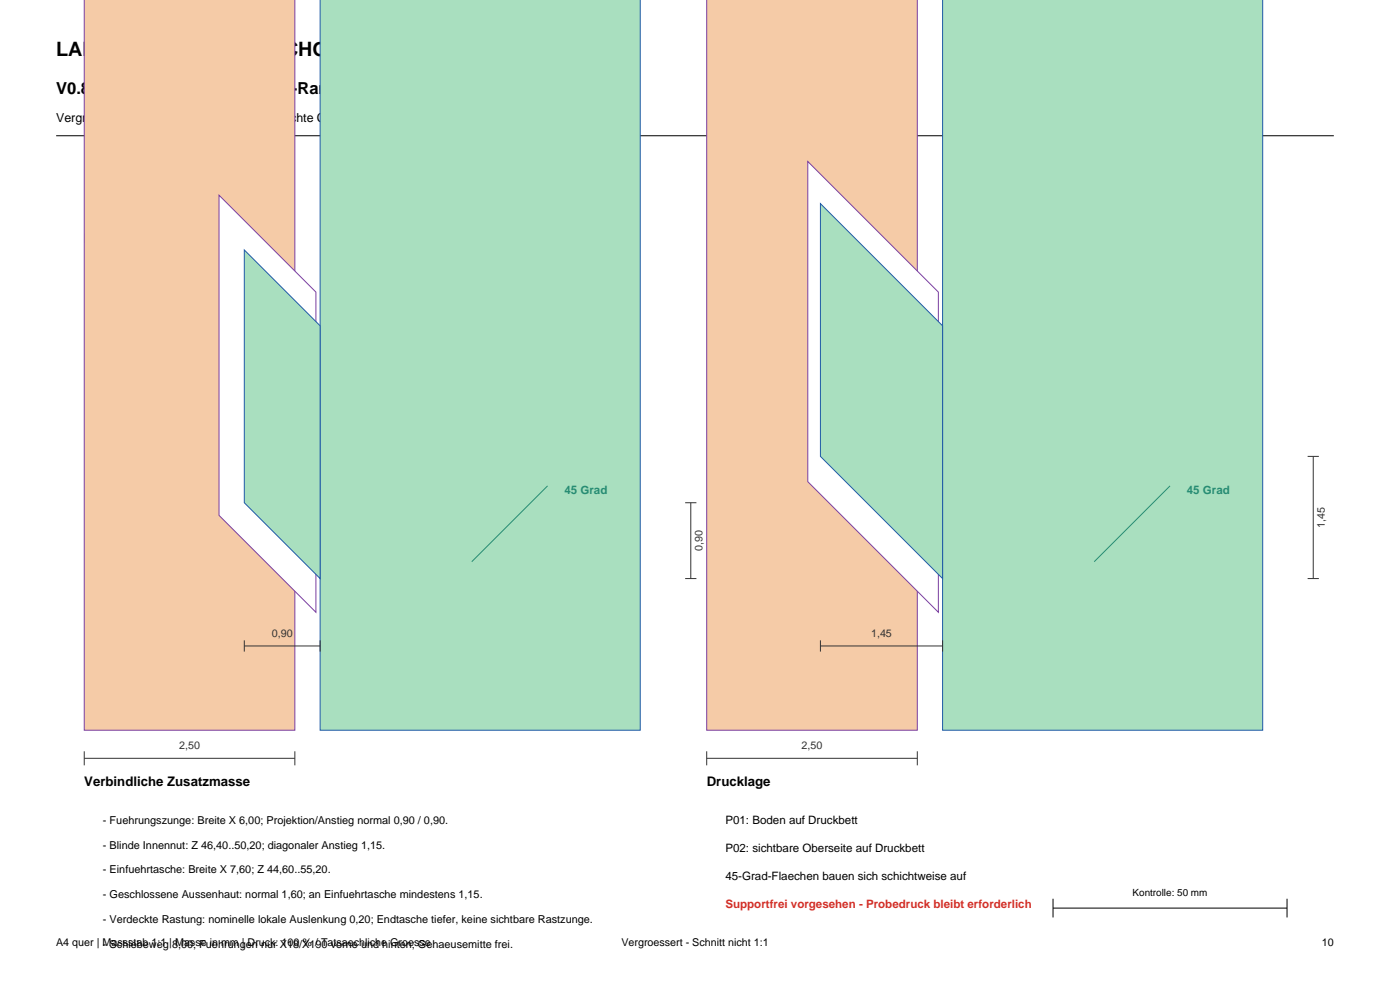
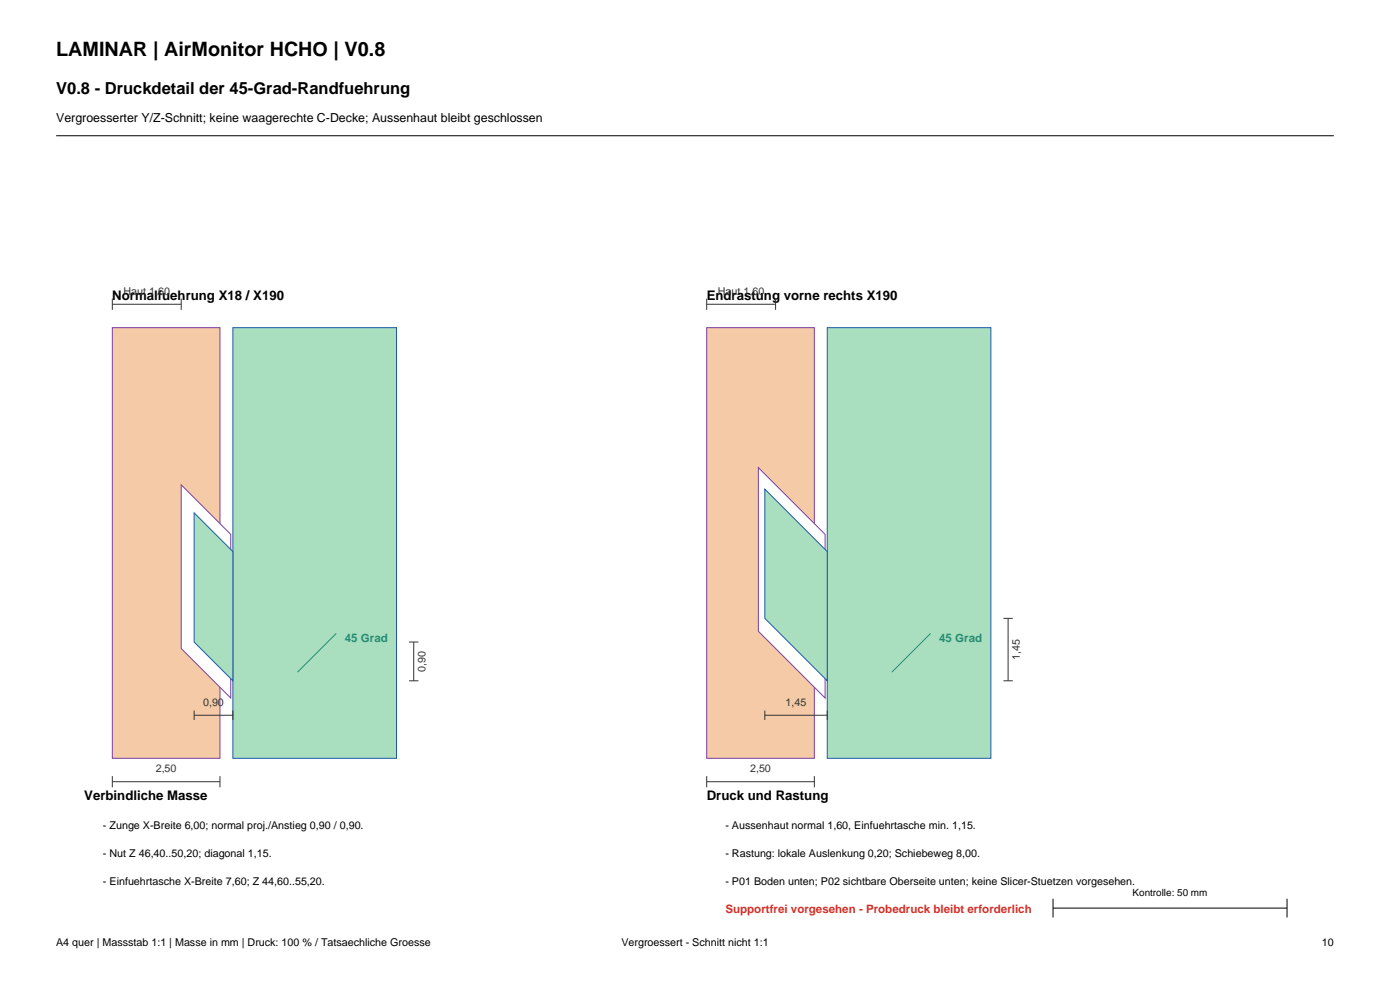
Update V0.8 sketches for hidden 45-degree lid guides

diff --git a/hardware/cad/AirMonitor_Compact_Revision_V0.8/generate_mass_sketches_v08.py b/hardware/cad/AirMonitor_Compact_Revision_V0.8/generate_mass_sketches_v08.py
@@ -6,6 +6,7 @@ is replaced by blind internal diagonal tracks. The enclosure centre stays free.
 from pathlib import Path
 
 SKETCH_UPDATE_45DEG_DETAIL_V08 = True
+PAGE10_LAYOUT_FIX_V2 = True
 
 from reportlab.lib.pagesizes import A4, landscape
 from reportlab.lib.units import mm
@@ -528,20 +529,19 @@ def page10_print_detail(c):
     header(c, "V0.8 - Druckdetail der 45-Grad-Randfuehrung",
            "Vergroesserter Y/Z-Schnitt; keine waagerechte C-Decke; Aussenhaut bleibt geschlossen")
 
-    # Enlarged normal guide section.
-    sx = 18 * mm
-    sy = 54 * mm
-    scale = 18 * mm
+    # Enlarged sections kept fully below the header and above the notes.
+    sy = 48 * mm
+    scale = 9.2 * mm
 
     def draw_section(x, title, snap=False):
-        label(c, x, sy + 104 * mm, title, 8, True)
+        label(c, x, sy + 98 * mm, title, 8, True)
 
-        # Lid skirt: 0..2.5 mm in Y, Z45..55 mm.
+        # P02 skirt: physical Y=0..2.50 and Z=45..55 mm.
         c.setFillColor(colors.HexColor("#F5CBA7"))
         c.setStrokeColor(C_HOOD)
         c.rect(x, sy, C.LID_SKIRT_W * scale, 10.0 * scale, stroke=1, fill=1)
 
-        # Blind diagonal groove (white cut-out).
+        # Blind diagonal groove.
         inner = C.GUIDE_GROOVE_INNER_Y_FRONT
         outer = C.GUIDE_GROOVE_OUTER_Y_FRONT
         if snap:
@@ -558,7 +558,7 @@ def page10_print_detail(c):
         c.setFillColor(colors.white)
         c.drawPath(p, stroke=1, fill=1)
 
-        # P01 shoulder and support-free diagonal tongue.
+        # P01 shoulder and diagonal guide tongue.
         wall_x = x + C.SHOULDER_INSET * scale
         c.setFillColor(colors.HexColor("#A9DFBF"))
         c.setStrokeColor(C_POD)
@@ -575,43 +575,48 @@ def page10_print_detail(c):
         p.close()
         c.drawPath(p, stroke=1, fill=1)
 
-        # 45-degree indication.
+        # Angle note.
         c.saveState()
         c.setStrokeColor(C_CENTER)
         c.setFillColor(C_CENTER)
-        c.line(x + 4.6 * scale, sy + 2.0 * scale,
-               x + 4.6 * scale + 0.9 * scale, sy + 2.9 * scale)
+        c.line(x + 4.3 * scale, sy + 2.0 * scale,
+               x + 5.2 * scale, sy + 2.9 * scale)
         c.restoreState()
-        label(c, x + 5.7 * scale, sy + 2.8 * scale, "45 Grad", 7, True, C_CENTER)
+        label(c, x + 5.4 * scale, sy + 2.7 * scale, "45 Grad", 7, True, C_CENTER)
 
-        dim_h(c, x, x + C.LID_SKIRT_W * scale, sy - 6 * mm, "2,50", 1.5)
+        # Main dimensions.
+        dim_h(c, x, x + C.LID_SKIRT_W * scale, sy - 5 * mm, "2,50", 1.2)
         dim_h(c, x, x + C.GUIDE_OUTER_SKIN * scale,
-              sy + 10.0 * scale + 6 * mm, "Aussenhaut 1,60", 1.5)
+              sy + 10.0 * scale + 5 * mm, "Haut 1,60", 1.2)
         dim_h(c, x + tip * scale, x + C.SHOULDER_INSET * scale,
-              sy + 1.0 * scale, fmt(proj, 2), 1.2)
-        dim_v(c, x + 7.2 * scale, sy + z0 * scale,
-              sy + (z0 + proj) * scale, fmt(proj, 2), 1.2)
+              sy + 1.0 * scale, fmt(proj, 2), 1.0)
+        dim_v(c, x + 7.0 * scale, sy + z0 * scale,
+              sy + (z0 + proj) * scale, fmt(proj, 2), 1.0)
 
-    draw_section(sx, "Normalfuehrung X18 / X190", snap=False)
+    draw_section(24 * mm, "Normalfuehrung X18 / X190", snap=False)
     draw_section(151 * mm, "Endrastung vorne rechts X190", snap=True)
 
-    label(c, 18 * mm, 42 * mm, "Verbindliche Zusatzmasse", 8, True)
-    details = [
-        f"Fuehrungszunge: Breite X {fmt(C.GUIDE_LUG_W, 2)}; Projektion/Anstieg normal {fmt(C.GUIDE_PROJ, 2)} / {fmt(C.GUIDE_RISE, 2)}.",
-        f"Blinde Innennut: Z {fmt(C.GUIDE_GROOVE_Z0, 2)}..{fmt(C.GUIDE_GROOVE_Z1, 2)}; diagonaler Anstieg {fmt(C.GUIDE_GROOVE_RISE, 2)}.",
-        f"Einfuehrtasche: Breite X {fmt(C.GUIDE_ENTRY_W, 2)}; Z {fmt(C.GUIDE_ENTRY_BOTTOM_Z, 2)}..{fmt(C.GUIDE_ENTRY_TOP_Z, 2)}.",
-        f"Geschlossene Aussenhaut: normal {fmt(C.GUIDE_OUTER_SKIN, 2)}; an Einfuehrtasche mindestens {fmt(C.GUIDE_ENTRY_OUTER_SKIN, 2)}.",
-        f"Verdeckte Rastung: nominelle lokale Auslenkung {fmt(C.SNAP_INTERFERENCE, 2)}; Endtasche tiefer, keine sichtbare Rastzunge.",
-        f"Schiebeweg {fmt(C.SLIDE_TRAVEL, 2)}; Fuehrungen nur X18/X190 vorne und hinten; Gehaeusemitte frei.",
+    # Compact notes in two columns; kept clear of footer/control scale.
+    label(c, 18 * mm, 39 * mm, "Verbindliche Masse", 8, True)
+    left_notes = [
+        f"Zunge X-Breite {fmt(C.GUIDE_LUG_W, 2)}; normal proj./Anstieg {fmt(C.GUIDE_PROJ, 2)} / {fmt(C.GUIDE_RISE, 2)}.",
+        f"Nut Z {fmt(C.GUIDE_GROOVE_Z0, 2)}..{fmt(C.GUIDE_GROOVE_Z1, 2)}; diagonal {fmt(C.GUIDE_GROOVE_RISE, 2)}.",
+        f"Einfuehrtasche X-Breite {fmt(C.GUIDE_ENTRY_W, 2)}; Z {fmt(C.GUIDE_ENTRY_BOTTOM_Z, 2)}..{fmt(C.GUIDE_ENTRY_TOP_Z, 2)}.",
     ]
-    for i, line in enumerate(details):
-        label(c, 22 * mm, (34 - 5.3 * i) * mm, "- " + line, 6.6)
+    for i, line in enumerate(left_notes):
+        label(c, 22 * mm, (33 - 6 * i) * mm, "- " + line, 6.5)
 
-    label(c, 151 * mm, 42 * mm, "Drucklage", 8, True)
-    label(c, 155 * mm, 34 * mm, "P01: Boden auf Druckbett", 7)
-    label(c, 155 * mm, 28 * mm, "P02: sichtbare Oberseite auf Druckbett", 7)
-    label(c, 155 * mm, 22 * mm, "45-Grad-Flaechen bauen sich schichtweise auf", 7)
-    label(c, 155 * mm, 16 * mm, "Supportfrei vorgesehen - Probedruck bleibt erforderlich", 7, True, C_ORING)
+    label(c, 151 * mm, 39 * mm, "Druck und Rastung", 8, True)
+    right_notes = [
+        f"Aussenhaut normal {fmt(C.GUIDE_OUTER_SKIN, 2)}, Einfuehrtasche min. {fmt(C.GUIDE_ENTRY_OUTER_SKIN, 2)}.",
+        f"Rastung: lokale Auslenkung {fmt(C.SNAP_INTERFERENCE, 2)}; Schiebeweg {fmt(C.SLIDE_TRAVEL, 2)}.",
+        "P01 Boden unten; P02 sichtbare Oberseite unten; keine Slicer-Stuetzen vorgesehen.",
+    ]
+    for i, line in enumerate(right_notes):
+        label(c, 155 * mm, (33 - 6 * i) * mm, "- " + line, 6.5)
+
+    label(c, 155 * mm, 15 * mm,
+          "Supportfrei vorgesehen - Probedruck bleibt erforderlich", 7, True, C_ORING)
     footer(c, 10, "Vergroessert - Schnitt nicht 1:1")
 
 
